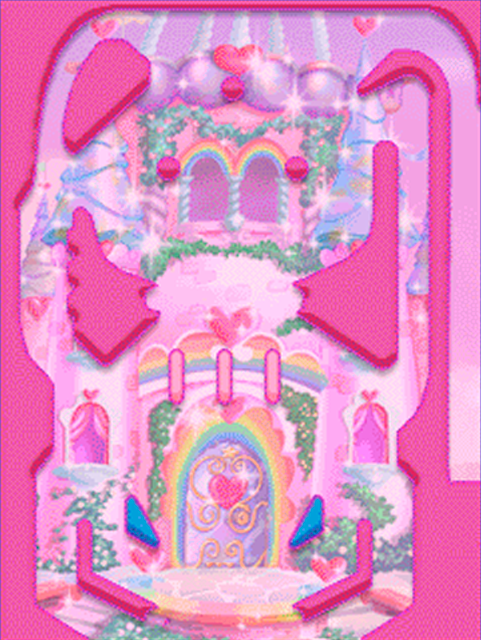
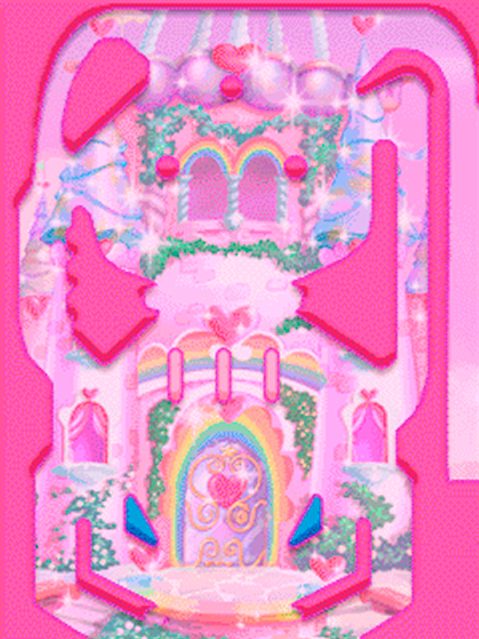
forces can now be applied

diff --git a/Pinball/ModuleSceneIntro.cpp b/Pinball/ModuleSceneIntro.cpp
@@ -24,12 +24,19 @@ bool ModuleSceneIntro::Start()
 
 	App->renderer->camera.x = App->renderer->camera.y = 0;
 
-	circle = App->textures->Load("Assets/wheel.png");
+	circle = App->textures->Load("Assets/Assets/ball.png");
 	box = App->textures->Load("Assets/crate.png");
 	rick = App->textures->Load("Assets/rick_head.png");
 	background = App->textures->Load("Assets/Assets/a.png");
 
-	App->physics->CreateChain(0, 0, a, 72, b2BodyType::b2_staticBody);
+	App->physics->CreateChain(0, 0, bgPoints, 82, b2BodyType::b2_staticBody);
+	App->physics->CreateChain(0, 0, upLeftPoints, 18, b2BodyType::b2_staticBody);
+	App->physics->CreateChain(0, 0, leftMiddlePoints, 40, b2BodyType::b2_staticBody);
+	App->physics->CreateChain(0, 0, bottomLeftPoints, 14, b2BodyType::b2_staticBody);
+	App->physics->CreateChain(0, 0, rightMiddlePoints, 28, b2BodyType::b2_staticBody);
+	App->physics->CreateChain(0, 0, bottomRightPoints, 14, b2BodyType::b2_staticBody);
+
+	ballBody = App->physics->CreateCircle(460, 440, 10);
 
 
 	return ret;
@@ -46,32 +53,25 @@ bool ModuleSceneIntro::CleanUp()
 // Update: draw background
 update_status ModuleSceneIntro::Update()
 {
-	// TODO 5: Move all creation of bodies on 1,2,3 key press here in the scene
-	if (App->input->GetKey(SDL_SCANCODE_1) == KEY_DOWN)
+	if (App->input->GetKey(SDL_SCANCODE_SPACE) == KEY_DOWN)
 	{
-		circles.add(App->physics->CreateCircle(App->input->GetMouseX(), App->input->GetMouseY(), 25));
+		b2Vec2 force(0, -500);
+		ballBody->ApplyForce(force);
 	}
 
-	if (App->input->GetKey(SDL_SCANCODE_2) == KEY_DOWN)
-	{
-		boxes.add(App->physics->CreateBox(App->input->GetMouseX(), App->input->GetMouseY()));
-	}
-
-	if (App->input->GetKey(SDL_SCANCODE_3) == KEY_DOWN)
-	{
-		// Create Rick
-		ricks.add(App->physics->CreateChain(App->input->GetMouseX(), App->input->GetMouseY(), rick_head, 84, b2BodyType::b2_dynamicBody));
-	}
-
+	
 	// Draw Background
 	App->renderer->Blit(background, 0, 0, NULL);
+
+
+	App->renderer->Blit(circle, ballBody->GetPosition().x-22, ballBody->GetPosition().y-19, 0, 1.0f, ballBody->GetRotation());
 
 	// Draw Figures
 	p2List_item<PhysBody*>* c = circles.getFirst();
 	while (c != NULL)
 	{
 		// Offset takes the radius value
-		App->renderer->Blit(circle, c->data->GetPosition().x - 25, c->data->GetPosition().y - 25, 0, 1.0f, c->data->GetRotation());
+		App->renderer->Blit(circle, c->data->GetPosition().x -22, c->data->GetPosition().y -19, 0, 1.0f, c->data->GetRotation());
 		c = c->next;
 	}
 

diff --git a/Pinball/chains.h b/Pinball/chains.h
@@ -1,52 +1,53 @@
 #pragma once
 
-int rick_head[84] = {
-		73, 149,
-		84, 147,
-		93, 140,
-		97, 132,
-		98, 126,
-		103, 126,
-		106, 122,
-		100, 117,
-		102, 106,
-		110, 100,
-		106, 93,
-		110, 86,
-		109, 75,
-		116, 66,
-		105, 63,
-		103, 58,
-		113, 35,
-		95, 40,
-		94, 26,
-		92, 14,
-		87, 4,
-		83, 18,
-		75, 32,
-		61, 16,
-		49, 6,
-		40, 0,
-		43, 21,
-		42, 39,
-		29, 39,
-		14, 37,
-		30, 62,
-		0, 76,
-		30, 91,
-		9, 104,
-		31, 114,
-		22, 125,
-		40, 126,
-		34, 137,
-		46, 132,
-		51, 140,
-		59, 145,
-		65, 148
+// Pivot 0, 0
+int bgPoints[82] = {
+	479, 479,
+	449, 479,
+	449, 88,
+	434, 60,
+	411, 47,
+	391, 49,
+	359, 82,
+	362, 92,
+	407, 74,
+	429, 94,
+	428, 375,
+	417, 406,
+	397, 428,
+	396, 462,
+	412, 482,
+	411, 602,
+	360, 637,
+	477, 638,
+	477, 100,
+	470, 58,
+	460, 34,
+	428, 8,
+	115, 9,
+	91, 18,
+	72, 31,
+	57, 57,
+	43, 89,
+	39, 124,
+	34, 177,
+	20, 205,
+	20, 331,
+	31, 357,
+	51, 380,
+	52, 446,
+	34, 470,
+	35, 600,
+	90, 638,
+	0, 638,
+	0, 0,
+	479, 0,
+	479, 74
 };
 
+
 // Pivot 0, 0
-int a[72] = {
+/*int bgPoints[72] = {
 	360, 639,
 	413, 602,
 	412, 483,
@@ -83,4 +84,82 @@ int a[72] = {
 	37, 602,
 	90, 639,
 	331, 640
+};
+*/
+
+int upLeftPoints[18] = {
+	99, 40,
+	80, 63,
+	67, 97,
+	60, 140,
+	73, 153,
+	148, 85,
+	149, 62,
+	124, 38,
+	108, 37
+};
+
+
+// Pivot 0, 0
+int rightMiddlePoints[28] = {
+	370, 145,
+	371, 220,
+	365, 240,
+	347, 257,
+	316, 272,
+	293, 282,
+	302, 294,
+	296, 312,
+	318, 327,
+	344, 342,
+	377, 366,
+	394, 358,
+	396, 147,
+	384, 136
+};
+
+// Pivot 0, 0
+int leftMiddlePoints[40] = {
+	80, 206,
+	92, 217,
+	99, 248,
+	114, 266,
+	144, 278,
+	156, 283,
+	140, 293,
+	146, 304,
+	160, 311,
+	107, 363,
+	74, 331,
+	75, 315,
+	66, 302,
+	70, 286,
+	67, 268,
+	71, 253,
+	65, 243,
+	65, 229,
+	73, 222,
+	72, 211
+};
+
+// Pivot 0, 0
+int bottomLeftPoints[14] = {
+	76, 524,
+	77, 585,
+	142, 615,
+	156, 603,
+	93, 570,
+	91, 524,
+	85, 518
+};
+
+// Pivot 0, 0
+int bottomRightPoints[14] = {
+	356, 528,
+	355, 571,
+	291, 603,
+	302, 616,
+	373, 583,
+	370, 522,
+	362, 516
 };

diff --git a/Pinball/ModulePhysics.cpp b/Pinball/ModulePhysics.cpp
@@ -167,10 +167,9 @@ PhysBody* ModulePhysics::CreateCircle(int x, int y, int rad)
 	b->CreateFixture(&fixture);
 	PhysBody* pBody = new PhysBody(b);
 
+
 	return pBody;
 
-	delete pBody;
-	pBody = nullptr;
 }
 
 PhysBody* ModulePhysics::CreateBox(int x, int y)
@@ -196,9 +195,6 @@ PhysBody* ModulePhysics::CreateBox(int x, int y)
 	PhysBody* pBody = new PhysBody(b);
 
 	return pBody;
-
-	delete pBody; 
-	pBody = nullptr;
 }
 
 PhysBody* ModulePhysics::CreateChain(int x, int y, int* chainName, const int n, b2BodyType bodyType)
@@ -219,7 +215,6 @@ PhysBody* ModulePhysics::CreateChain(int x, int y, int* chainName, const int n, 
 	bodyDef.position.Set(PIXEL_TO_METERS(x), PIXEL_TO_METERS(y));
 
 	b2Body* b = App->physics->GetWorld()->CreateBody(&bodyDef);
-
 	b2ChainShape chainShape;
 	chainShape.CreateLoop(vs, n/2);
 
@@ -263,4 +258,11 @@ const b2Vec2& PhysBody::GetPosition()
 const double& PhysBody::GetRotation()
 {
 	return (double)RADTODEG * body->GetTransform().q.GetAngle();
+}
+
+void PhysBody::ApplyForce(b2Vec2 force)
+{
+	b2Vec2 pos = body->GetWorldCenter();
+	body->ApplyForce(force, body->GetPosition(), true);
+
 }

diff --git a/Pinball/Globals.h b/Pinball/Globals.h
@@ -21,8 +21,8 @@ enum update_status
 };
 
 // Configuration -----------
-#define SCREEN_WIDTH 1024
-#define SCREEN_HEIGHT 768
+#define SCREEN_WIDTH 479
+#define SCREEN_HEIGHT 639
 #define SCREEN_SIZE 1
 #define WIN_FULLSCREEN false
 #define WIN_RESIZABLE false

diff --git a/Pinball/ModuleSceneIntro.h b/Pinball/ModuleSceneIntro.h
@@ -4,6 +4,7 @@
 #include "Globals.h"
 
 class PhysBody;
+class b2Body;
 
 class ModuleSceneIntro : public Module
 {
@@ -16,6 +17,8 @@ public:
 	bool CleanUp();
 
 public:
+	PhysBody* ballBody;
+
 
 	SDL_Texture* circle;
 	SDL_Texture* box;

diff --git a/Pinball/ModulePhysics.h b/Pinball/ModulePhysics.h
@@ -33,6 +33,11 @@ public:
 
 	const b2Vec2& GetPosition();
 	const double& GetRotation();
+	inline const b2Body& GetBody()
+	{
+		return *body;
+	}
+	void ApplyForce(b2Vec2 force);
 };
 
 
